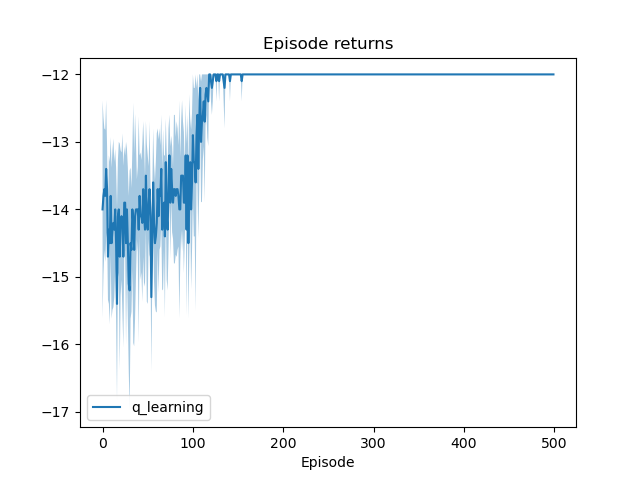
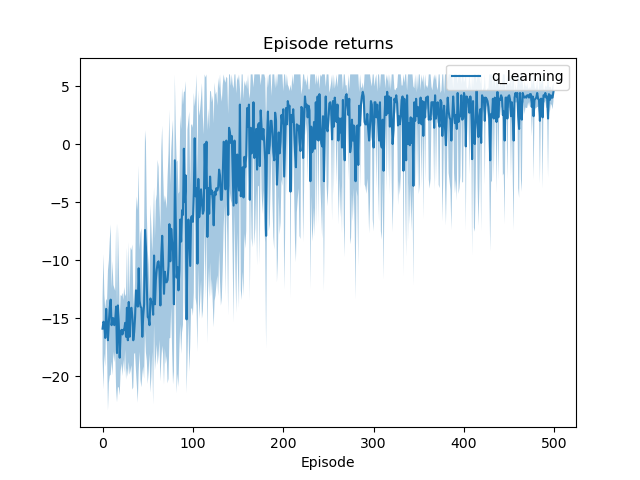
refactored to action indices

diff --git a/rl_policy.py b/rl_policy.py
@@ -43,13 +43,13 @@ class EpsilonGreedyPolicy(object):
             if obs not in self.state_count:
                self.state_count[obs] = 0 
             if self.state_count[obs] > self.eps_cutoff:
-                epsilon = self.eps_min
+                self.epsilon = self.eps_min
             else:
-                epsilon = self.epsilon0 - self.eps_slope * self.state_count[obs]
+                self.epsilon = self.epsilon0 - self.eps_slope * self.state_count[obs]
             self.state_count[obs]+=1
         else:
-            epsilon = self.epsilon0
-        return epsilon
+            self.epsilon = self.epsilon0
+        return self.epsilon
 
     def sample_action(self, obs):
         """
@@ -73,7 +73,7 @@ class EpsilonGreedyPolicy(object):
             action_idx = np.random.choice(np.arange(len(self.actions_from_node[obs[0]])))
             action = self.actions_from_node[obs[0]][action_idx]
         self.sa_count[obs][action_idx] += 1
-        return action, action_idx
+        return action_idx, action
 
     def sample_greedy_action(self, obs):
         """
@@ -92,7 +92,7 @@ class EpsilonGreedyPolicy(object):
         action = self.actions_from_node[obs[0]][action_idx]
 
         self.sa_count[obs][action_idx] += 1
-        return action, action_idx
+        return action_idx, action
 
 class LeftUpPolicy(object):
     def __init__(self, env):
@@ -100,21 +100,25 @@ class LeftUpPolicy(object):
     def sample_greedy_action(self, s):
         possible_actions = self.env.neighbors[s[0]]
         if s[0]-1 in possible_actions: # can go left
-            action = s[0]-1
+            action = possible_actions.index(int(s[0]-1))
         elif s[0]+self.env.sp.N in possible_actions: # can't go left, go up
-            action = s[0]+self.env.sp.N
+            action = possible_actions.index(int(s[0]+self.env.sp.N))
         elif s[0]+1 in possible_actions: # can't go up, go right
-            action = s[0]+1
+            action = possible_actions.index(int(s[0]+1))
         else: # go down
-            action = s[0]-self.env.sp.N
+            action = possible_actions.index(int(s[0]-self.env.sp.N))
         return action, None
 
 class RandomPolicy(object):
     def __init__(self, env):
-        self.env=env
+        #self.env=env
+        self.out_degree=env.out_degree
     def sample_greedy_action(self, s):
-        possible_actions = self.env.neighbors[s[0]]
-        action = random.choice(possible_actions)
+        num_actions = self.out_degree[s[0]]
+
+        #possible_actions = self.env.neighbors[s[0]]
+        action = random.randint(0,num_actions-1)
+        #action = random.choice(possible_actions)
         return action, None
 
 import networkx as nx
@@ -135,5 +139,6 @@ class MinIndegreePolicy(object):
         source_node_label = s[0]
         source_node_coord = self.env.sp.labels2coord[s[0]]
         best_path = nx.dijkstra_path(self.G, source_node_coord, target_node_coord, weight='weight')
-        action = self.env.sp.coord2labels[best_path[1]]
+        next_node = self.env.sp.coord2labels[best_path[1]]
+        action = self.env.neighbors[s[0]].index(int(next_node))
         return action, None

diff --git a/main_sim.py b/main_sim.py
@@ -9,8 +9,8 @@ random.seed(911)
 
 configs = su.GetConfigs() # dict with pre-set configs: "Manhattan5","Manhattan11","CircGraph"
 #conf=configs['Manhattan3']
-#conf=configs['Manhattan5']
-conf=configs['Manhattan11'] # initial condition in register: ((5,0),(3,10),(6,10),(9,10))
+conf=configs['Manhattan5']
+#conf=configs['Manhattan11'] # initial condition in register: ((5,0),(3,10),(6,10),(9,10))
 #conf=configs['CircGraph']
 #conf=configs['TKGraph']
 conf['direction_north']=False
@@ -22,11 +22,11 @@ conf['direction_north']=False
 #su.SimulatePursuersPathways(conf, optimization_method='static', fixed_initial_positions=((0,1),(2,2)))
 
 # DEMO: interactive mode
-env=GraphWorld(conf, optimization_method='static', fixed_initial_positions=(5,114,115,116))#((0,1),(2,2)))#None)#((2,0),(3,4),(4,3),(4,4)))
-su.SimulateInteractiveMode(env)
+env=GraphWorld(conf, optimization_method='static', fixed_initial_positions=(2,20,21,22))#(5,114,115,116))#((0,1),(2,2)))#None)#((2,0),(3,4),(4,3),(4,4)))
+#su.SimulateInteractiveMode(env)
 
 # DEMO: policy evaluation
 #policy=LeftUpPolicy(env)
-policy=RandomPolicy(env)
-#policy=MinIndegreePolicy(env)
-EvaluatePolicy(env, policy,number_of_runs=1, print_runs=False, save_plots=False)
+#policy=RandomPolicy(env)
+policy=MinIndegreePolicy(env)
+EvaluatePolicy(env, policy,[0], print_runs=False, save_plots=True)

diff --git a/main_rl.py b/main_rl.py
@@ -20,12 +20,12 @@ configs = su.GetConfigs() # dict with pre-set configs: "Manhattan5","Manhattan11
 conf=configs['Manhattan5']
 conf['direction_north']=False
 
-env = GraphWorld(conf, optimization_method='dynamic', fixed_initial_positions=(2,15,19,22),state_representation='ete0U0')
-#env = GraphWorld(conf, optimization_method='static', fixed_initial_positions=None,state_representation='etUte0U0')
+#env = GraphWorld(conf, optimization_method='dynamic', fixed_initial_positions=(2,15,19,22),state_representation='ete0U0')
+env = GraphWorld(conf, optimization_method='static', fixed_initial_positions=None,state_representation='etUte0U0')
 
 policy = EpsilonGreedyPolicy(env, eps_0, eps_min, cutoff, initial_Q_values)
-#init_pos_trainset_indices0, init_pos_trainset_indices1 = SelectTrainset(env, min_y_coord=env.sp.N-1, min_num_same_positions=env.sp.U, min_num_worlds=4)
-#env.world_pool = init_pos_trainset_indices1 # limit the training set to the selected entries
+init_pos_trainset_indices0, init_pos_trainset_indices1 = SelectTrainset(env, min_y_coord=env.sp.N-1, min_num_same_positions=env.sp.U, min_num_worlds=4)
+env.world_pool = init_pos_trainset_indices1 # limit the training set to the selected entries
 
 metrics_episode_returns = {}
 metrics_episode_lengths = {}

diff --git a/rl_algorithms.py b/rl_algorithms.py
@@ -37,12 +37,11 @@ def q_learning(env, policy, num_episodes, discount_factor=1.0, alpha_0 = 0.5, al
         done = False
         if print_episodes: print('episode '+str(i_episode)+' - [S'+str(start_state)+' ', end='')
         while not done:
-            start_action, start_action_idx = policy.sample_action(start_state)
+            start_action_idx, start_action = policy.sample_action(start_state)
             #print('state '+str(start_state)+'action '+str(start_action)+',',end='')
-            new_state, reward, done, _ = env.step(start_action)
+            new_state, reward, done, _ = env.step(start_action_idx)
             if print_episodes: 
-                eps=policy.get_epsilon(start_state)
-                print('eps('+'{:.2f}'.format(eps)+'),a('+str(start_action)+'),(r'+str(reward)+')]-> [S'+str(new_state)+' ', end='')
+                print('eps('+'{:.2f}'.format(policy.epsilon)+'),a('+str(start_action)+'),(r'+str(reward)+')]-> [S'+str(new_state)+' ', end='')
             
             if new_state not in policy.Q:
                 policy.Q[new_state] = np.ones(len(policy.actions_from_node[new_state[0]])).astype(np.float32) * policy.initial_Q_values

diff --git a/simdata_utils.py b/simdata_utils.py
@@ -212,9 +212,10 @@ def SimulateInteractiveMode(env):
         print('Current state:')
         print(s)
         print('Available actions:\n> [ ',end='')
-        for n in env.neighbors[s[0]]:
-            print(str(n)+', ',end='')
+        n = env.neighbors[s[0]]
+        print(n)
         a=input(']\nAction (new node)?\n> ')
+        a=n.index(int(a))
         s,r,done,_=env.step(int(a))
         env.render()
         R+=r

diff --git a/environments.py b/environments.py
@@ -187,7 +187,8 @@ class GraphWorld(object):
         elif self.state_representation == 'ete0U0':
             return self.encode_(tuple([self.state[0]])+self.state0)
 
-    def step(self, next_node):
+    def step(self, action_idx):
+        next_node = self.neighbors[self.state[0]][action_idx]
         info={'Captured':False, 'u_positions':self.state[1:]}
         self.global_t += 1
         self.local_t += 1

diff --git a/dqn_utils.py b/dqn_utils.py
@@ -79,7 +79,8 @@ def MemTest(env,print_output=True):
     s = env.reset()
     #a = env.action_space.sample()
     for i in range(5):
-        a = random.choice(env._availableActionsInCurrentState())
+        #a = random.choice(env._availableActionsInCurrentState())
+        a = random.randint(0,env.out_degree[env.state[0]]-1)
         s_next, r, done, _ = env.step(a)
 
         # Push a transition
